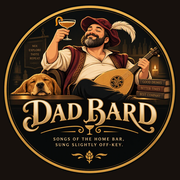
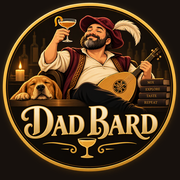
Add files via upload

diff --git a/index.html b/index.html
@@ -8,7 +8,7 @@
 <meta name="mobile-web-app-capable" content="yes">
 <meta name="apple-mobile-web-app-status-bar-style" content="black-translucent">
 <meta name="apple-mobile-web-app-title" content="Dad Bard">
-<link rel="apple-touch-icon" href="icon-180.png?v=6.5">
+<link rel="apple-touch-icon" href="icon-180.png?v=6.6">
[1 lines of base64/hex data omitted]
 <link rel="manifest" href="manifest.webmanifest">
 <title>Dad Bard 🪕</title>

diff --git a/sw.js b/sw.js
@@ -1,5 +1,5 @@
 /* Dad Bard offline cache. Bump VERSION whenever you upload a new index.html. */
-var VERSION = 'dadbard-v6.5.0';
+var VERSION = 'dadbard-v6.6.0';
 var FILES = ['./', './index.html', './manifest.webmanifest', './icon-180.png', './icon-192.png', './icon-512.png'];
 self.addEventListener('install', function (e) {
   e.waitUntil(caches.open(VERSION).then(function (c) { return Promise.all(FILES.map(function (f) { return c.add(f).catch(function () {}); })); }));

diff --git a/README.md b/README.md
@@ -1,3 +1,2 @@
-Dad Bard v6.5
-Full illustrated badge is the home-screen icon. Simplified text-free coupe-and-hat mark is embedded in the page header. Existing title and tagline unchanged.
-Replace supplied files. Existing installed home-screen icons may retain their old artwork.
+Dad Bard v6.6
+Home-screen badge updated: tagline removed and composition enlarged. Simplified in-app header logo unchanged. Replace supplied files. Physical iPhone not tested.
